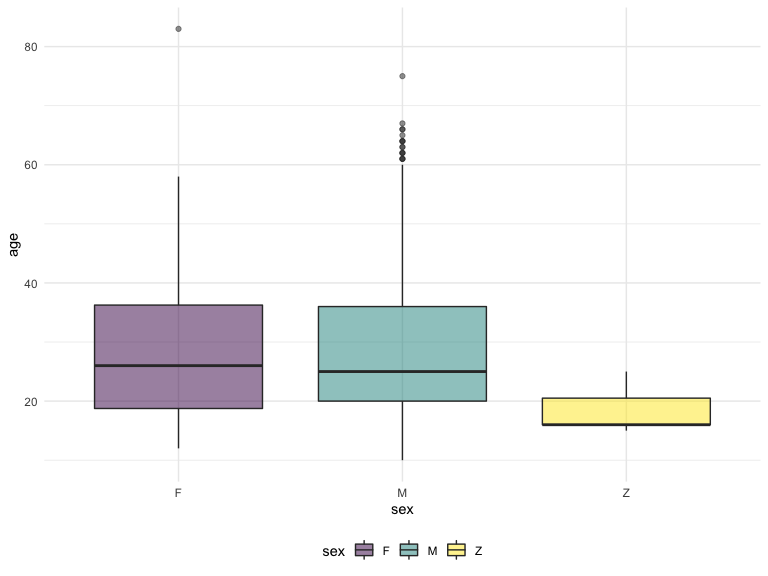
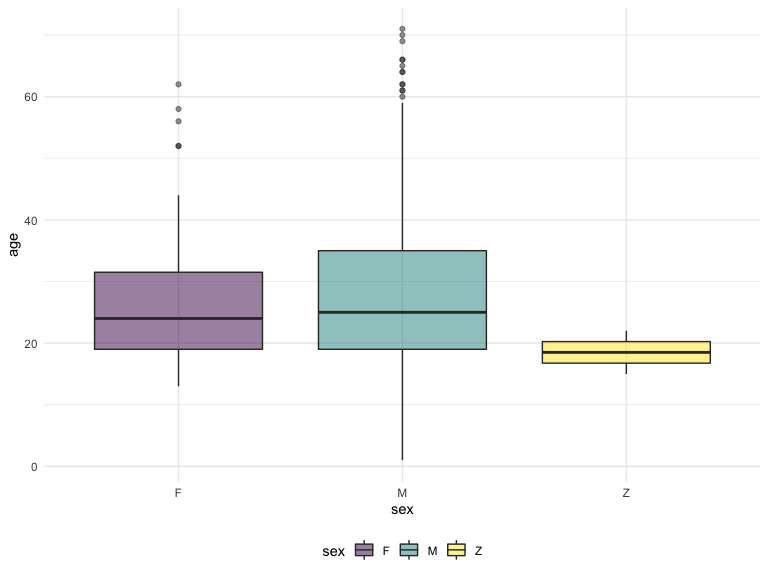
changed age to numeric variable

diff --git a/group_13_final_proj.md b/group_13_final_proj.md
@@ -35,15 +35,15 @@ stop_frisk_tidy_df =
   sample_n(1000) %>% 
   select(pct, datestop, timestop, inout, perobs, perstop, arstmade, offunif, frisked, searched, rf_vcrim, rf_othsw, rf_attir:ac_evasv, cs_furtv:cs_other, rf_knowl, sb_hdobj:sb_admis, rf_furt, rf_bulg, sex, race, age:othfeatr, city, xcoord, ycoord) %>% 
   mutate(
-    height_inch = ht_feet * 12 + ht_inch
+    height_inch = ht_feet * 12 + ht_inch,
+    age = as.numeric(age)
   )
 ```
 
 ``` r
 # count per sex group
 demographics = stop_frisk_tidy_df %>% 
-  select(sex:build) %>% 
-  mutate(age = as.numeric(age)) 
+  select(sex:build, height_inch, - ht_feet, -ht_inch) 
 
 # count subjects by sex
 demographics %>% 
@@ -54,9 +54,9 @@ demographics %>%
 
 | sex | count |
 | :-- | ----: |
-| F   |    84 |
-| M   |   909 |
-| Z   |     7 |
+| F   |    79 |
+| M   |   919 |
+| Z   |     2 |
 
 ``` r
 # distribution of age by sex
